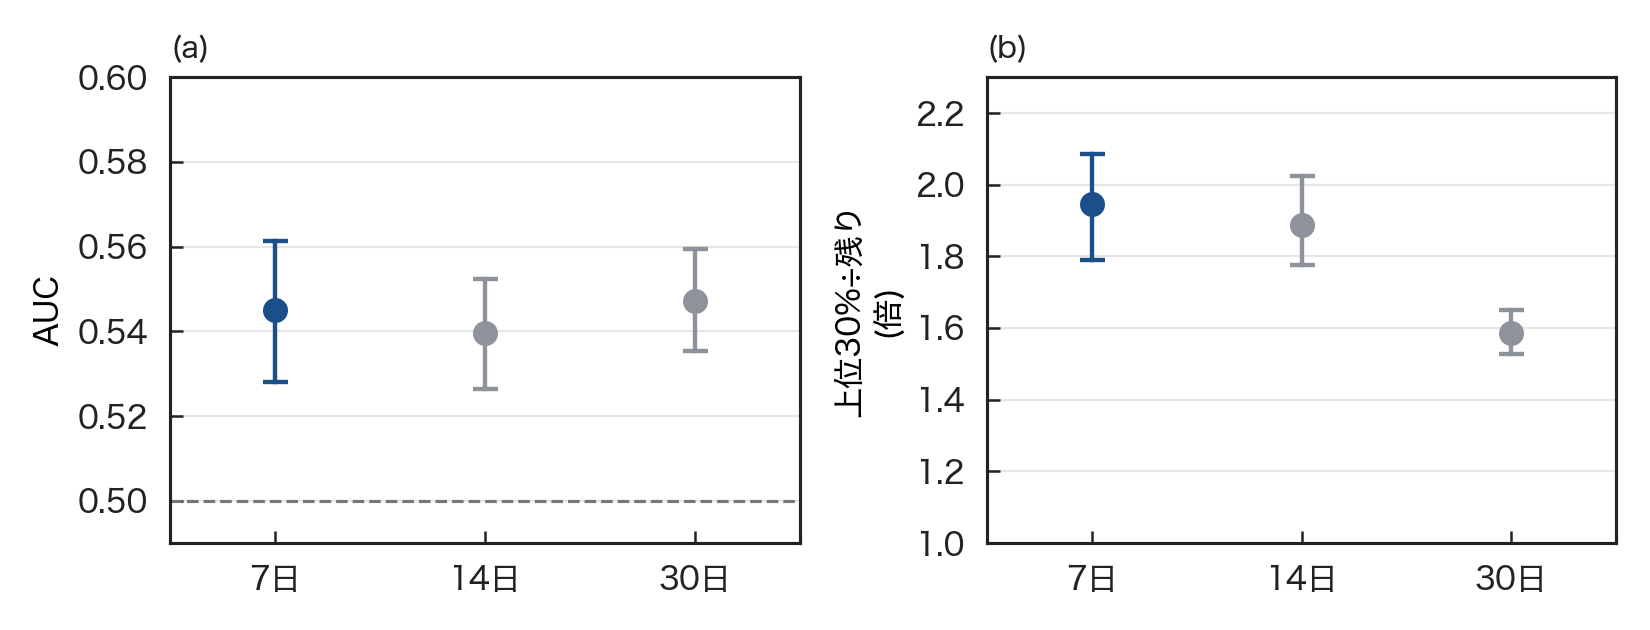
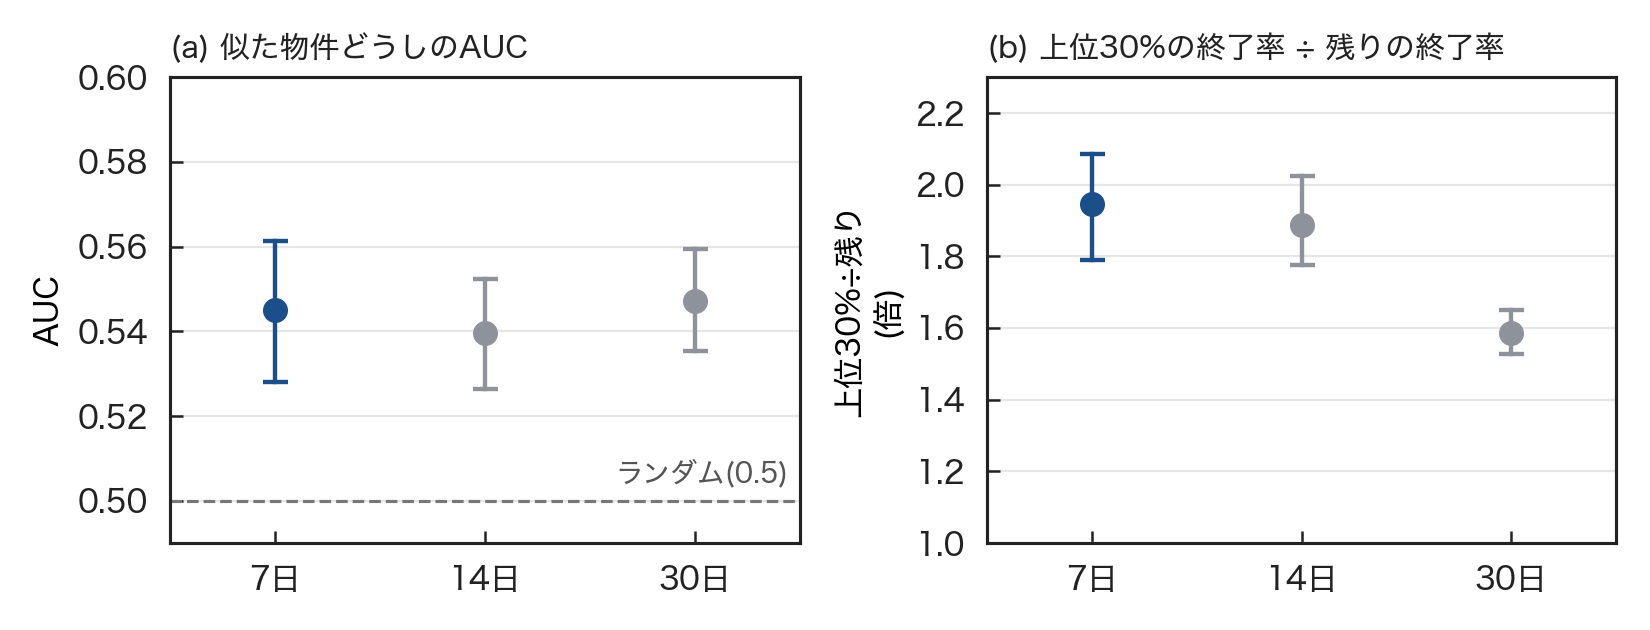
Talk figure 31b: add panel titles and a random-level label
(a) is titled as the within-similar-listings AUC and the dashed line is
labelled as the random level (0.5). (b) is titled as the top-30% rate
divided by the rest. The plotted numbers are unchanged.

Changed region(s): [[0.5873, 0.0302, 0.9273, 0.0905], [0.3709, 0.7238, 0.4945, 0.7841], [0.1236, 0.0603, 0.3091, 0.0905]]

diff --git a/Yamamoto/room_level/analysis/31_slide_figures.py b/Yamamoto/room_level/analysis/31_slide_figures.py
@@ -287,8 +287,10 @@ def fig_horizon(c23: pd.DataFrame) -> None:
         a.set_xticks(range(3))
         a.set_xticklabels(["7日", "14日", "30日"])
         a.set_ylabel(("AUC" if ylab.startswith("AUC") else "上位30%÷残り\n(倍)") if TALK else ylab)
-    panel(ax[0], "(a)")
-    panel(ax[1], "(b)")
+    panel(ax[0], "(a) 似た物件どうしのAUC" if TALK else "(a)")
+    panel(ax[1], "(b) 上位30%の終了率 ÷ 残りの終了率" if TALK else "(b)")
+    if TALK:
+        ax[0].text(2.45, 0.503, "ランダム(0.5)", ha="right", va="bottom", fontsize=11 * FS, color="#555555")
     fig.tight_layout()
     save(fig, "31b_horizon.png")
 
